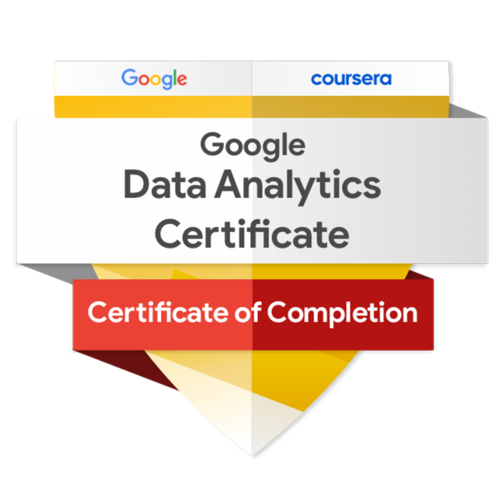
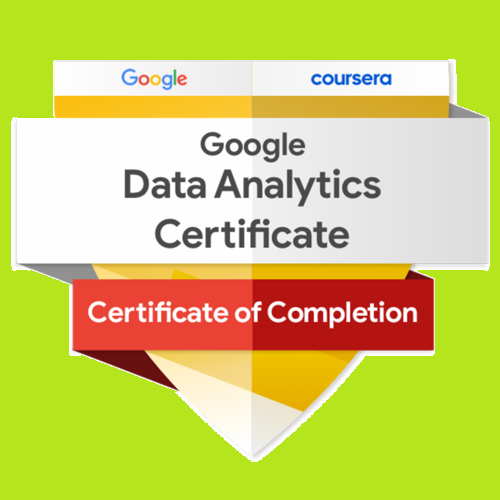
Projects Added
Descrition

diff --git a/index.html b/index.html
@@ -52,7 +52,7 @@
 							<div class="col-4 col-6-medium col-12-small">
 								<article class="box style2">
 									<meta name="viewport" content="initial-scale=1, maximum-scale=1">
-									<a href="#" class="image featured"><img src="images/google_badge_1.png" alt="" /></a>
+									<a href="#" class="image featured"><img src="images/google_badge_2.png" alt="" /></a>
 									<h3><a href="https://www.credly.com/badges/89b794eb-6c7a-4658-951f-0249da0a24a7?source=linked_in_profile">Google Data Analytics</a></h3>
 									<p></p>
 								</article>
@@ -68,7 +68,7 @@
 							<div class="col-4 col-6-medium col-12-small">
 								<article class="box style2">
 									<meta name="viewport" content="initial-scale=1, maximum-scale=1">
-									<a href="#" class="image featured"><img src="images/MIT-Logo_1.png" alt="" /></a>
+									<a href="#" class="image featured"><img src="images/MIT-Logo_2.png" alt="" /></a>
 									<h3><a href="https://www.linkedin.com/in/gulsher-ali-baloch-phd-a5882a3b/details/education/">AI & ML Certification</a></h3>
 									<p></p>
 								</article>
@@ -76,7 +76,7 @@
 							<div class="col-4 col-6-medium col-12-small">
 								<article class="box style2">
 									<meta name="viewport" content="initial-scale=1, maximum-scale=1">
-									<a href="#" class="image featured"><img src="images/Google-Digital-1.png" alt="" /></a>
+									<a href="#" class="image featured"><img src="images/Google-Digital-2.png" alt="" /></a>
 									<h3><a href="https://www.linkedin.com/in/gulsher-ali-baloch-phd-a5882a3b/details/certifications/">Digital Marketing</a></h3>
 									<p></p>
 								</article>
@@ -84,7 +84,7 @@
 							<div class="col-4 col-6-medium col-12-small">
 								<article class="box style2">
 									<meta name="viewport" content="initial-scale=1, maximum-scale=1">
-									<a href="#" class="image featured"><img src="images/Tensorflow_1.jpg" alt="" /></a>
+									<a href="#" class="image featured"><img src="images/Tensorflow_2.jpg" alt="" /></a>
 									<h3><a href="https://www.coursera.org/account/accomplishments/certificate/ABBJZZS3V6LN">Tensorflow Framework</a></h3>
 									<p></p>
 								</article>
@@ -92,7 +92,7 @@
 							<div class="col-4 col-6-medium col-12-small">
 								<article class="box style2">
 									<meta name="viewport" content="initial-scale=1, maximum-scale=1">
-									<a href="#" class="image featured"><img src="images/Unsupervised_Learning_Customer_Segmentation_1.jpeg" alt="" /></a>
+									<a href="#" class="image featured"><img src="images/customer-segmentation_1.jpg" alt="" /></a>
 									<h3><a href="https://www.coursera.org/account/accomplishments/certificate/D9SUX8THCX3H">Customer Segmentation</a></h3>
 									<p></p>
 								</article>
@@ -116,42 +116,42 @@
 						<div class="col-4 col-6-medium col-12-small">
 							<article class="box style2">
 								<a href="#" class="image featured"><img src="images/pic01.jpg" alt="" /></a>
-								<h3><a href="https://www.linkedin.com/in/gulsher-ali-baloch-phd-a5882a3b/details/education/">Magna feugiat</a></h3>
+								<h3><a href="https://github.com/Gulsher9931/Fake-News-Detection">Fake News Detection</a></h3>
 								<p>Ornare nulla proin odio consequat.</p>
 							</article>
 						</div>
 						<div class="col-4 col-6-medium col-12-small">
 							<article class="box style2">
 								<a href="#" class="image featured"><img src="images/pic02.jpg" alt="" /></a>
-								<h3><a href="#">Veroeros primis</a></h3>
+								<h3><a href="https://github.com/Gulsher9931/Plant-Disease-Detection">Plant Disease Detection</a></h3>
 								<p>Ornare nulla proin odio consequat.</p>
 							</article>
 						</div>
 						<div class="col-4 col-6-medium col-12-small">
 							<article class="box style2">
 								<a href="#" class="image featured"><img src="images/pic03.jpg" alt="" /></a>
-								<h3><a href="#">Lorem ipsum</a></h3>
+								<h3><a href="https://github.com/Gulsher9931/Neuromarketing">Neuromarketing</a></h3>
 								<p>Ornare nulla proin odio consequat.</p>
 							</article>
 						</div>
 						<div class="col-4 col-6-medium col-12-small">
 							<article class="box style2">
 								<a href="#" class="image featured"><img src="images/pic04.jpg" alt="" /></a>
-								<h3><a href="#">Tempus dolore</a></h3>
+								<h3><a href="https://github.com/Gulsher9931/Category-Predictor">Category Predictor</a></h3>
 								<p>Ornare nulla proin odio consequat.</p>
 							</article>
 						</div>
 						<div class="col-4 col-6-medium col-12-small">
 							<article class="box style2">
 								<a href="#" class="image featured"><img src="images/pic05.jpg" alt="" /></a>
-								<h3><a href="#">Feugiat aliquam</a></h3>
+								<h3><a href="https://github.com/Gulsher9931/EEG-Classification">EEG Classification</a></h3>
 								<p>Ornare nulla proin odio consequat.</p>
 							</article>
 						</div>
 						<div class="col-4 col-6-medium col-12-small">
 							<article class="box style2">
 								<a href="#" class="image featured"><img src="images/pic06.jpg" alt="" /></a>
-								<h3><a href="#">Sed amet ornare</a></h3>
+								<h3><a href="https://github.com/Gulsher9931/Image-Denoising">Image Denoising</a></h3>
 								<p>Ornare nulla proin odio consequat.</p>
 							</article>
 						</div>
